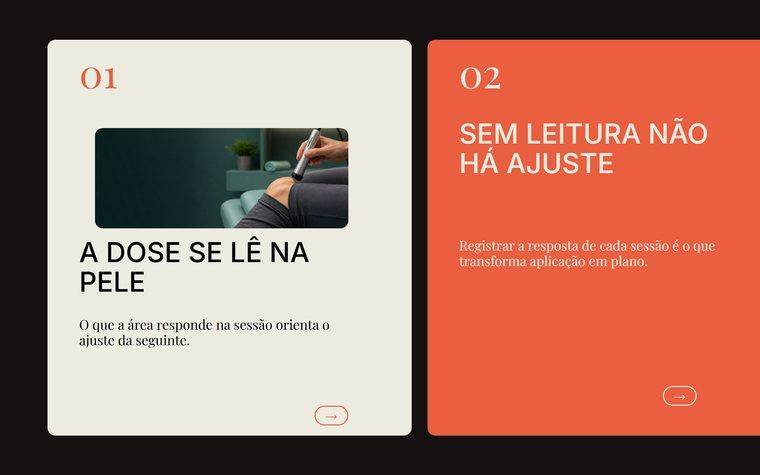
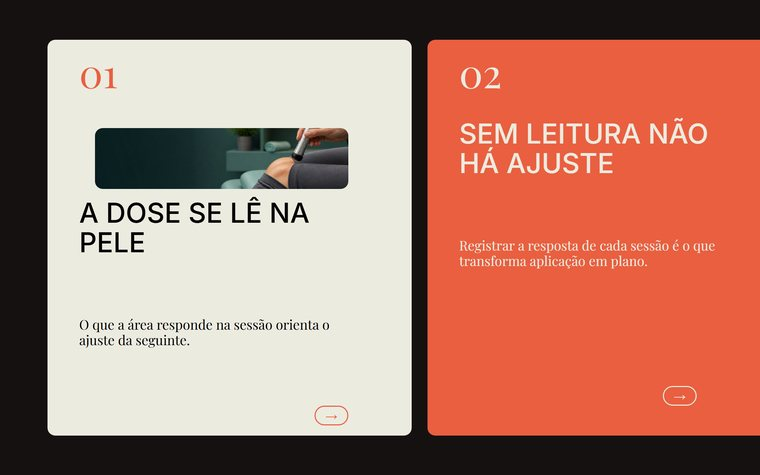
gate: slot da plataforma que o pack nao declara
Gustavo viu logo e professionalPhoto colados no ultimo slide da certificacao,
fora do cartao, comendo o gap para o slide anterior. O pack nunca pediu esses
slots — o agente os inseriu por habito, e nada barrava porque eles existem no
motor.

Duas causas:
1. o images.md do editorial-cards-continuos ainda trazia a linha
   "logo / foto_profissional | slots da plataforma", herdada do template de
   packs. Lida como "este pack usa".
2. nao havia como um pack dizer "eu nao uso slot nenhum".

Agora `slots` no pack.json lista os aceitos; [] e nenhum, e o conversor
rejeita. Pack sem a chave aceita qualquer um (packs antigos seguem iguais).

Neste estilo a identidade vem por TEXTO — @ no rodape da capa, site no cartao
de fechamento. Todo conteudo vive em cartao e a fita-layer pinta por cima, so
que slot solto na section fica atras dos cartoes ou colado na borda.

Changed region(s): [[0.0908, 0.2653, 0.4842, 0.6189]]

diff --git a/engine/convert.js b/engine/convert.js
@@ -395,6 +395,24 @@ const rgb2hex = (c) => {
   await browser.close();
 
   if (data.fatal) { console.error(`REJEITADO — ${data.fatal}`); process.exit(1); }
+
+  // SLOT DA PLATAFORMA QUE O PACK NÃO DECLARA. `slots` no pack.json lista quais
+  // são aceitos; `[]` significa nenhum. Sem isto o agente insere logo e
+  // professionalPhoto por hábito — eles existem no motor, então nada barrava —
+  // e num pack cujo conteúdo vive todo em cartão o slot solto na section fica
+  // atrás dos cartões ou colado na borda, comendo o gap entre slides.
+  // Pack sem a chave declarada aceita qualquer slot (comportamento antigo).
+  if (Array.isArray(pack.slots)) {
+    const usados = [...html.matchAll(/data-slot="([^"]+)"/g)].map((m) => m[1]);
+    const proibidos = [...new Set(usados)].filter((s) => !pack.slots.includes(s));
+    if (proibidos.length) {
+      console.error(`REJEITADO — slot não declarado pelo pack ${packSlug}: `
+        + `${proibidos.join(", ")}. O pack.json declara slots: `
+        + `[${pack.slots.join(", ")}] — veja images.md para como este estilo assina.`);
+      process.exit(1);
+    }
+  }
+
   if (data.rejects.length) {
     console.error(`REJEITADO — ${data.rejects.length} violação(ões) do contrato (engine/CATALOG.md):`);
     for (const r of data.rejects) console.error(`  ${r.id}: ${r.reason}`);

diff --git a/packs/editorial-cards-continuos/exemplos/ref-miolo-cartao-com-foto.html b/packs/editorial-cards-continuos/exemplos/ref-miolo-cartao-com-foto.html
@@ -23,13 +23,13 @@
          serifa fina sobre foto some, e a foto tem raio próprio. -->
     <div class="ds-card" data-el-id="f1" data-half-left data-layer style="grid-area: 2 / 3 / 12 / 14"></div>
     <img class="ds-photo" data-el-id="f1p" data-gap data-half-left data-static data-layer data-round
-         data-image-type="generated" src="foto-detalhe.jpg" style="grid-area: 4 / 4 / 7 / 12">
+         data-image-type="generated" src="foto-detalhe.jpg" style="grid-area: 4 / 4 / 6 / 12">
     <span class="ds-number" data-el-id="f1n" data-half-left data-static data-layer data-face="serif"
           data-size="lg" data-corner data-inset="top"
           style="grid-area: 2 / 4 / 3 / 8">01</span>
     <h2 class="ds-headline" data-weight="medium" data-el-id="f1h" data-half-left data-layer data-template-element
         data-te-description="tese do cartão" data-te-min-chars="12" data-te-max-chars="30"
-        style="grid-area: 7 / 4 / 9 / 12">A dose se lê na pele</h2>
+        style="grid-area: 6 / 4 / 8 / 12">A dose se lê na pele</h2>
     <p class="ds-body" data-el-id="f1b" data-half-left data-layer data-face="serif"
        data-template-element data-te-description="apoio"
        data-te-min-chars="30" data-te-max-chars="110"

diff --git a/packs/editorial-cards-continuos/images.md b/packs/editorial-cards-continuos/images.md
@@ -24,10 +24,24 @@ matéria são o que fazem a capa segurar o scroll.
 | foto da capa | "{conceito} — pessoa em gesto natural em ambiente com madeira e tecido, luz de janela lateral forte com sombra longa, penumbra quente, editorial cinematográfico, ÁREA CALMA E ESCURA no terço inferior para texto claro, sem rosto identificável, sem texto" — retrato 1024x1536 |
 | marcação (assinatura) | NÃO se gera: `cp packs/editorial-cards-continuos/assets/marcacao-elipse.svg artifacts/runs/<slug>/assets/`. Elipse manuscrita sobre a palavra-chave da capa |
 | foto em cartão (opcional) | só quando o conteúdo pedir prova visual: "{conceito}, detalhe fechado, luz direcional, textura visível, editorial, sem texto" — ocupa o topo do cartão, nunca o cartão inteiro |
-| logo / foto_profissional | slots da plataforma (placeholder canônico no render) |
+| logo / foto_profissional | **este pack NÃO usa** — ver abaixo |
 
 **Dois testes antes de aprovar a capa:**
 1. O texto claro do terço inferior fica legível? Se a foto tem alto contraste
    ali, gere de novo com a área calma.
 2. A foto seguraria sozinha num feed? Se é ambiente vazio e bem iluminado por
    igual, falta gesto e direção de luz.
+
+## Este pack não tem logo nem foto do profissional
+
+`professionalPhoto` e `logo` existem no motor, mas **não neste estilo**. Todo
+conteúdo aqui vive dentro de um cartão, e a `.fita-layer` pinta por cima dos
+slides: um slot solto na `<section>` fica atrás dos cartões ou colado na borda
+do slide, comendo o gap entre eles.
+
+A identidade do profissional aparece pelo **@ no rodapé da capa** e pelo **site
+no cartão de fechamento** — texto, não imagem. É a assinatura do estilo
+editorial: a marca fala pela tipografia e pela cor do cartão de acento.
+
+Se um dia o pack precisar de logo, ele entra COMO CONTEÚDO DE CARTÃO, com
+`grid-area` dentro dos limites dele — nunca solto na section.

diff --git a/PACKS.md b/PACKS.md
@@ -100,6 +100,20 @@ O criador constrói o pack completo (tokens, tecnicas.md, images.md, exemplos) e
 
 Técnica que exigir componente fora do catálogo → §6 (mudança de motor, com aval do Gustavo).
 
+## 3c. Slots da plataforma: declare quais o pack aceita
+
+`slots` no `pack.json` lista os slots da plataforma que o estilo usa
+(`professionalPhoto`, `logo`, `instagramProfilePicture`). **`[]` significa
+nenhum**, e o conversor rejeita quem aparecer.
+
+Sem essa declaração o agente insere logo e foto do profissional por hábito —
+eles existem no motor, então nada barra. Num pack cujo conteúdo vive todo
+dentro de cartão, o slot solto na `<section>` fica atrás dos cartões ou colado
+na borda do slide, comendo o gap. Foi o que reprovou a primeira certificação do
+editorial-cards-continuos.
+
+Pack sem a chave aceita qualquer slot (compatibilidade com os packs antigos).
+
 ## 4. Certificação (a run que prova o pack)
 
 1. **Três runs completas** (`run.py new cert-<slug>-N --env dev --pack <slug>`) em **TAMANHOS DIFERENTES de fita — 3, 5 e 7 slides** (packs de peça única: 1 peça + variações): duas do MESMO tema e uma de tema diferente — certificação v2 prova, além da fidelidade, a **variância**, o **fôlego do miolo em fita longa** (7 slides sem cair em texto solto) (as duas do mesmo tema não podem sair com o mesmo esqueleto) e a robustez das técnicas (par contínuo/travessias emendando na fita).

diff --git a/packs/editorial-cards-continuos/tecnicas.md b/packs/editorial-cards-continuos/tecnicas.md
@@ -166,6 +166,10 @@ Duas variações abrem mão da seta por isso: `foto-embaixo` (a imagem ocupa o
 rodapé) e `foto-retrato` (a coluna de leitura é estreita demais para headline +
 apoio + pill em 10 linhas).
 
+**Sem `professionalPhoto` e sem `logo`.** Ver `images.md` — o pack assina com
+texto (@ na capa, site no fechamento), não com imagem. Slot solto na section
+fica atrás dos cartões ou come o gap entre slides.
+
 **Foto dentro de cartão leva `data-gap`.** A imagem estica até preencher a
 célula do grid, então encosta em quem estiver na linha vizinha. O modificador
 dá 26px de margem vertical — folga de leitura sem gastar uma linha inteira
